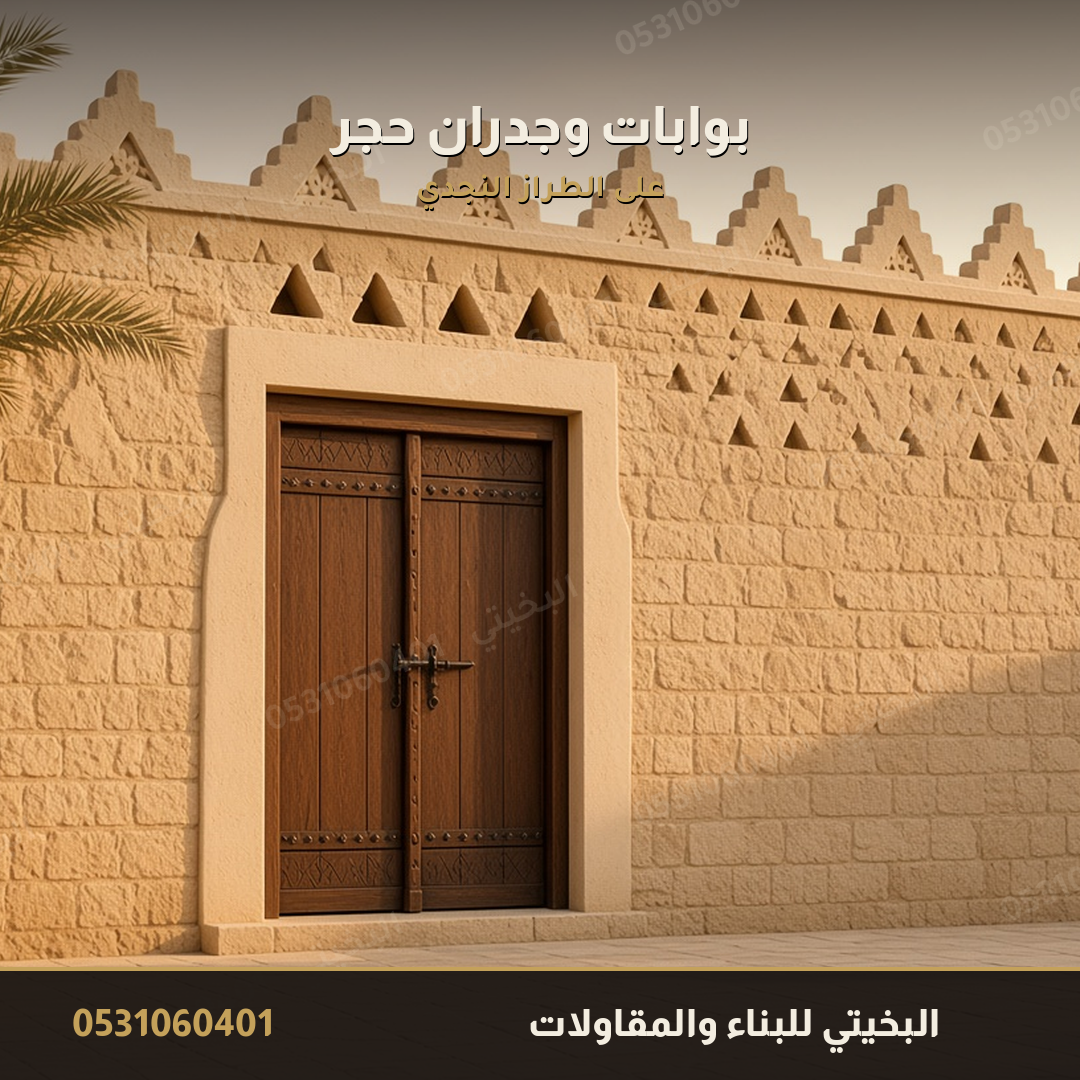
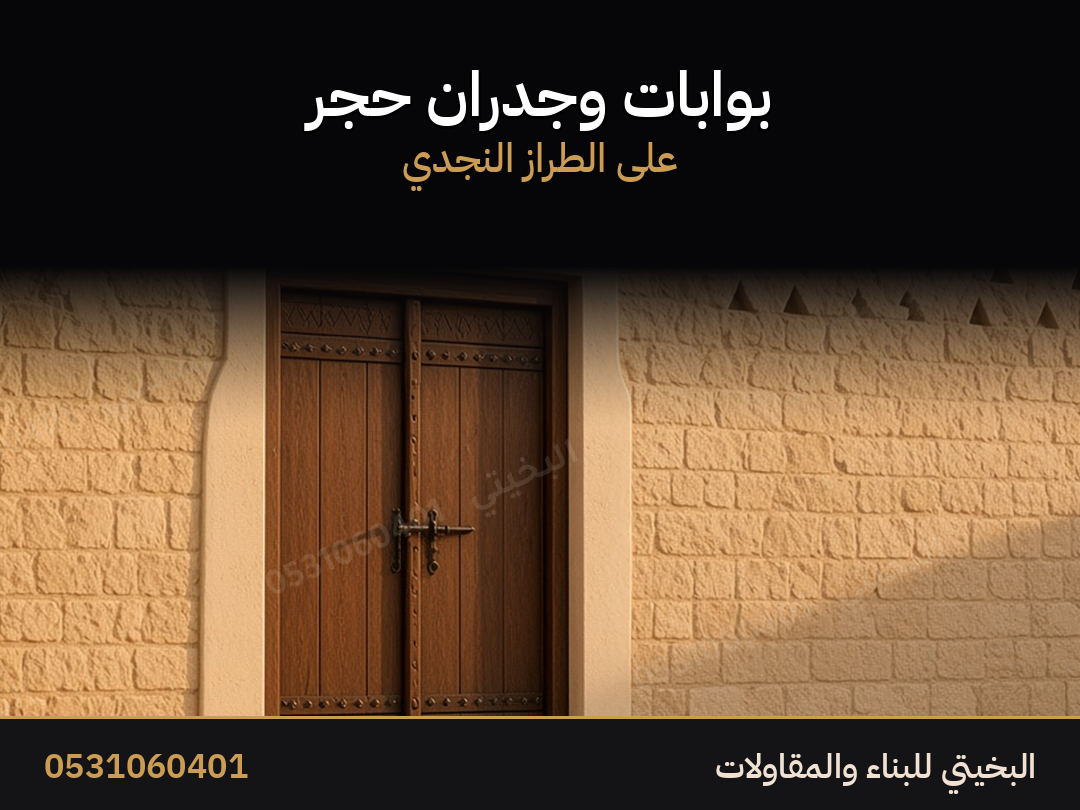
إعلان الحجر التراثي كامل مع صورتين حقيقيتين من الشغل
تنظيف صورة الوالد بلا تغيير في الشغل، وغلاف إعلان واسع، وحالة واتساب. العنوان والوصف والردود.

diff --git a/موقع/css/site.css b/موقع/css/site.css
@@ -132,8 +132,8 @@ button, input, select, textarea { font: inherit; color: inherit; }
   min-width: 0;
 }
 .brand img {
-  width: 40px;
-  height: 40px;
+  width: 46px;
+  height: 46px;
   flex: none;
 }
 .brand-copy {

diff --git a/إعلانات/حجر-تراثي/إعلان-حجر-تراثي.md b/إعلانات/حجر-تراثي/إعلان-حجر-تراثي.md
@@ -4,7 +4,7 @@ aliases:
   - "حجر تراثي"
   - "بناء حجر"
 kind: "ad"
-status: "معتمد"
+status: "جاهز للنشر"
 priority: "P0"
 channel: "haraj"
 service: "حجر"
@@ -20,19 +20,37 @@ updated: "2026-10-16"
 
 # إعلان الحجر التراثي
 
-هذا الملف وحده يكفي لنشر إعلان الحجر. صوره في المجلد `صور` بجانبه. لا تُخلط مع إعلان المشبات أو الأفران.
+هذا الملف وحده يكفي لنشر إعلان الحجر. صوره في المجلد `صور` بجانبه. لا تُخلط مع إعلان المشبات أو الأفران أو البلك.
+
+فيه صورتان حقيقيتان من شغل اليد على الطبيعة، والباقي صور تعريف بالخدمة.
 
 > [!info] كيف تنشره
-> إعلان جديد في خدمات، الرياض. الصورة الأولى `01-الواجهة.png`. التعليقات مفتوحة. غلاف المتجر منفصل، وليس صورة هذا الإعلان.
+> إعلان جديد في خدمات، قسم المقاولات، الرياض. صورة الغلاف `صور/08-شغل-حقيقي-واسع.jpg` لأنها شغل حقيقي وتُقرأ من بعيد. التعليقات مفتوحة. غلاف المتجر منفصل، وليس صورة هذا الإعلان.
 
 > [!warning] لا يُنشر
-> لا تكتب مشبات ولا أفران في هذا الإعلان. لا تكتب اسم حي. لا تكتب كلمة ممنوعة. السعر بعد صورة المكان.
+> لا تكتب مشبات ولا أفران ولا بلك في هذا الإعلان. لا تكتب اسم حي. لا تكتب سعراً في الوصف. لا تكتب كلمة من قائمة المنع. السعر بعد صورة المكان.
 
 ## العنوان
 
+الأساسي:
+
 ```
-بناء حجر تراثي في الرياض جدران وواجهات وأسوار البخيتي
+حجر تراثي في الرياض جدران وواجهات وأسوار وجدران منحنية
 ```
+
+بديل أول:
+
+```
+معلم حجر تراثي في الرياض جدران وواجهات وأسوار
+```
+
+بديل ثانٍ:
+
+```
+بناء حجر تراثي في الرياض البخيتي للبناء والمقاولات
+```
+
+اختر واحداً فقط. لا تجمع أكثر من عنوان.
 
 ## الوصف — انسخه كما هو
 
@@ -40,6 +58,7 @@ updated: "2026-10-16"
 البخيتي للبناء والمقاولات
 أشتغل حجر تراثي في الرياض
 جدران وواجهات وأسوار وجدران منحنية
+من شغلي اللي تشوفه في الصور
 أرسل صورة المكان والمقاس وأقولك السعر
 إذا اتفقنا أمشي على كلامنا
 الأهم الثقة والأمانة
@@ -47,29 +66,36 @@ updated: "2026-10-16"
 الرياض
 ```
 
+بلا ترقيم وبلا تنصيص وبلا إيموجي. السطر الجديد يكفي.
+
 ## كلمات آخر الإعلان
 
 ```
-بناء حجر تراثي، حجر الرياض، واجهات حجر، أسوار حجر، جدران حجر، حجر طبيعي، جدار منحني، معلم حجر الرياض، البخيتي للبناء والمقاولات
+بناء حجر تراثي، حجر الرياض، واجهات حجر، أسوار حجر، جدران حجر، جدار منحني، حجر طبيعي، حجر تراثي، معلم حجر الرياض، البخيتي للبناء والمقاولات
 ```
 
-## ترتيب الرفع
+## ترتيب رفع الصور
 
-| الترتيب | الملف | لماذا |
+ارفعها بهذا الترتيب. الأولى هي غلاف الإعلان.
+
+| الترتيب | الملف | لماذا هذا الترتيب |
 |---|---|---|
-| 1 | `صور/01-الواجهة.png` | غلاف الإعلان. واجهة حجر نظيفة |
-| 2 | `صور/02-الجدار-المنحني.png` | الجدار المنحني بعد تنظيف صورة الوالد |
-| 3 | `صور/03-البوابة.png` | باب وجدران على الطراز النجدي |
-| 4 | `صور/04-التفصيلة.png` | تفصيلة الحجر |
-| 5 | `صور/05-الأعمال.png` | الاسم والخدمات والرقم |
-| حالة | `صور/06-ستوري.png` | حالة واتساب، ليست صورة الإعلان الأولى |
+| 1 | `صور/08-شغل-حقيقي-واسع.jpg` | شغل حقيقي، 1600×900، تُقرأ من بعيد وهي صورة الغلاف |
+| 2 | `صور/07-جدار-حقيقي-منحني.png` | نفس العمل من زاوية ثانية، 1080×1080 |
+| 3 | `صور/01-الواجهة.png` | واجهة حجر نظيفة، 1080×810 |
+| 4 | `صور/03-البوابة.png` | باب وجدران على الطراز النجدي، 1080×810 |
+| 5 | `صور/02-الجدار-المنحني.png` | الجدار المنحني كامل، 1080×1080 |
+| 6 | `صور/04-التفصيلة.png` | تفصيلة الحجر والفواصل، 1080×1080 |
+| 7 | `صور/05-الأعمال.png` | الاسم والخدمات والرقم، 1080×1080 |
+| حالة واتساب | `صور/09-ستوري-شغل-حقيقي.png` | 1080×1920، شغل حقيقي |
+| حالة واتساب ثانية | `صور/06-ستوري.png` | 1080×1920، تعريف بالخدمة |
 
 ## الرد داخل حراج
 
 ```
 السلام عليكم
 أشتغل حجر تراثي في الرياض
-جدران وواجهات وأسوار
+جدران وواجهات وأسوار وجدران منحنية
 أرسل صورة المكان والمقاس
 أقولك السعر وإذا اتفقنا أمشي على كلامنا
 0531060401
@@ -86,34 +112,51 @@ updated: "2026-10-16"
 إذا اتفقنا أمشي على كلامنا
 ```
 
+## ملاحظات على الصور
+
+- الصور الحقيقية نظّفت ووُضّحت بلا تغيير في الشغل نفسه. أشرطة الواتساب انزالت، والقياس ثابت.
+- العلامة المائية داخلة في البكسلات: الاسم والرقم، وشريط أسفل كل صورة.
+- الرقم بلا مسافات في كل الصور.
+- لا تُعد تلوين الصور الحقيقية، ولا تحذف العلامة، ولا تقص الزاوية.
+
 ## غلاف المتجر
 
 ليس من صور هذا الإعلان. ارفعه من `المتجر/غلاف.png`.
 
-النص عليه: البخيتي للبناء والمقاولات / حجر تراثي · جدران · مباني / 0531060401
-
 ## الصور
 
-### 1 — واجهة الحجر
+### غلاف الإعلان — 1
+
+![شغل حقيقي واسع](صور/08-شغل-حقيقي-واسع.jpg)
+
+### 2 — العمل من زاوية ثانية
+
+![جدار حجر منحني](صور/07-جدار-حقيقي-منحني.png)
+
+### 3 — الواجهة
 
 ![واجهة الحجر](صور/01-الواجهة.png)
 
-### 2 — الجدار المنحني
-
-![الجدار المنحني](صور/02-الجدار-المنحني.png)
-
-### 3 — البوابة
+### 4 — البوابة
 
 ![البوابة](صور/03-البوابة.png)
 
-### 4 — التفصيلة
+### 5 — الجدار المنحني
+
+![الجدار المنحني](صور/02-الجدار-المنحني.png)
+
+### 6 — التفصيلة
 
 ![التفصيلة](صور/04-التفصيلة.png)
 
-### 5 — الأعمال
+### 7 — الأعمال
 
 ![الأعمال](صور/05-الأعمال.png)
 
-### حالة واتساب
+### حالة واتساب — العمل
+
+![ستوري الشغل](صور/09-ستوري-شغل-حقيقي.png)
+
+### حالة واتساب — الخدمة
 
 ![ستوري](صور/06-ستوري.png)

diff --git a/ابدأ-من-هنا.md b/ابدأ-من-هنا.md
@@ -74,7 +74,10 @@ updated: "2026-10-16"
 
 الاسم المكتوب في الملفات ما زال البخيتي للبناء والمقاولات. الشارة داخل صورة الغلاف ما زالت تقول معلم مباني لأن الصورة نفسها هي اللي اناخت. لا تبدل الشارة إلا بأمر.
 
-لا ترفع إلى GitHub إلا بأمر صريح. سير النشر في `.github/workflows/pages.yml` جاهز ولا يُشغَّل الآن.
+رُفع إلى GitHub في 16 أكتوبر 2026 بأمر صريح. آخر التزام على `main` في المستودع الخاص `engmohammeda/mydad`.
+الشعار الفني ركب في المتجر والموقع وأغلفة المتجر وحراج، والشعارات التجريبية انحذفت.
+
+سير النشر في `.github/workflows/pages.yml` ما زال محلياً ولا يُشغَّل، وPages غير مفعّلة في المستودع.
 
 ## لا تُعد
 

diff --git a/الهوية/العلامة-المائية.md b/الهوية/العلامة-المائية.md
@@ -27,7 +27,7 @@ tags:
 ```
 
 العلامة المائية على صور الإعلان تبقى الاسم والرقم فقط.
-غلاف المتجر المعتمد فيه الشعار، وشارة معلم مباني، وتسميات الشغل اللي في الصورة. لا تُبدّل الشارة ولا تُحذف التسميات إلا بأمر.
+غلاف المتجر المعتمد فيه الشعار الجديد في الزاوية، وشارة معلم مباني، وتسميات الشغل اللي في الصورة. لا تُبدّل الشارة ولا تُحذف التسميات إلا بأمر.
 
 ^النص-المعتمد
 
